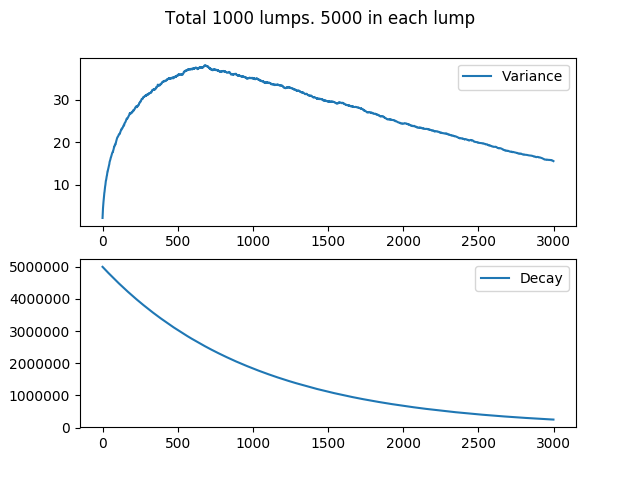
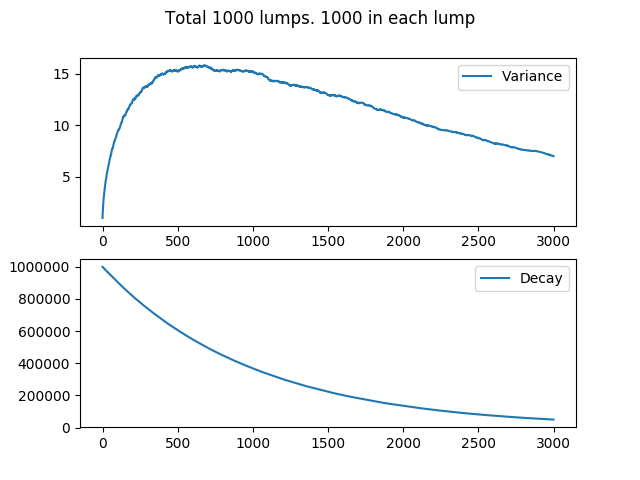
Variance among the lumps.

diff --git a/TASHIP/StochasticProcess2017/Assignment5/radioactive_decay.py b/TASHIP/StochasticProcess2017/Assignment5/radioactive_decay.py
@@ -42,7 +42,7 @@ class Lump( ):
 def main( ):
 
     lumps = [ ]
-    nLumps, nNuc = 1000, 5000
+    nLumps, nNuc = 1000, 1000
     for i in range( nLumps ):
         l = Lump( nNuc )
         lumps.append( l )
